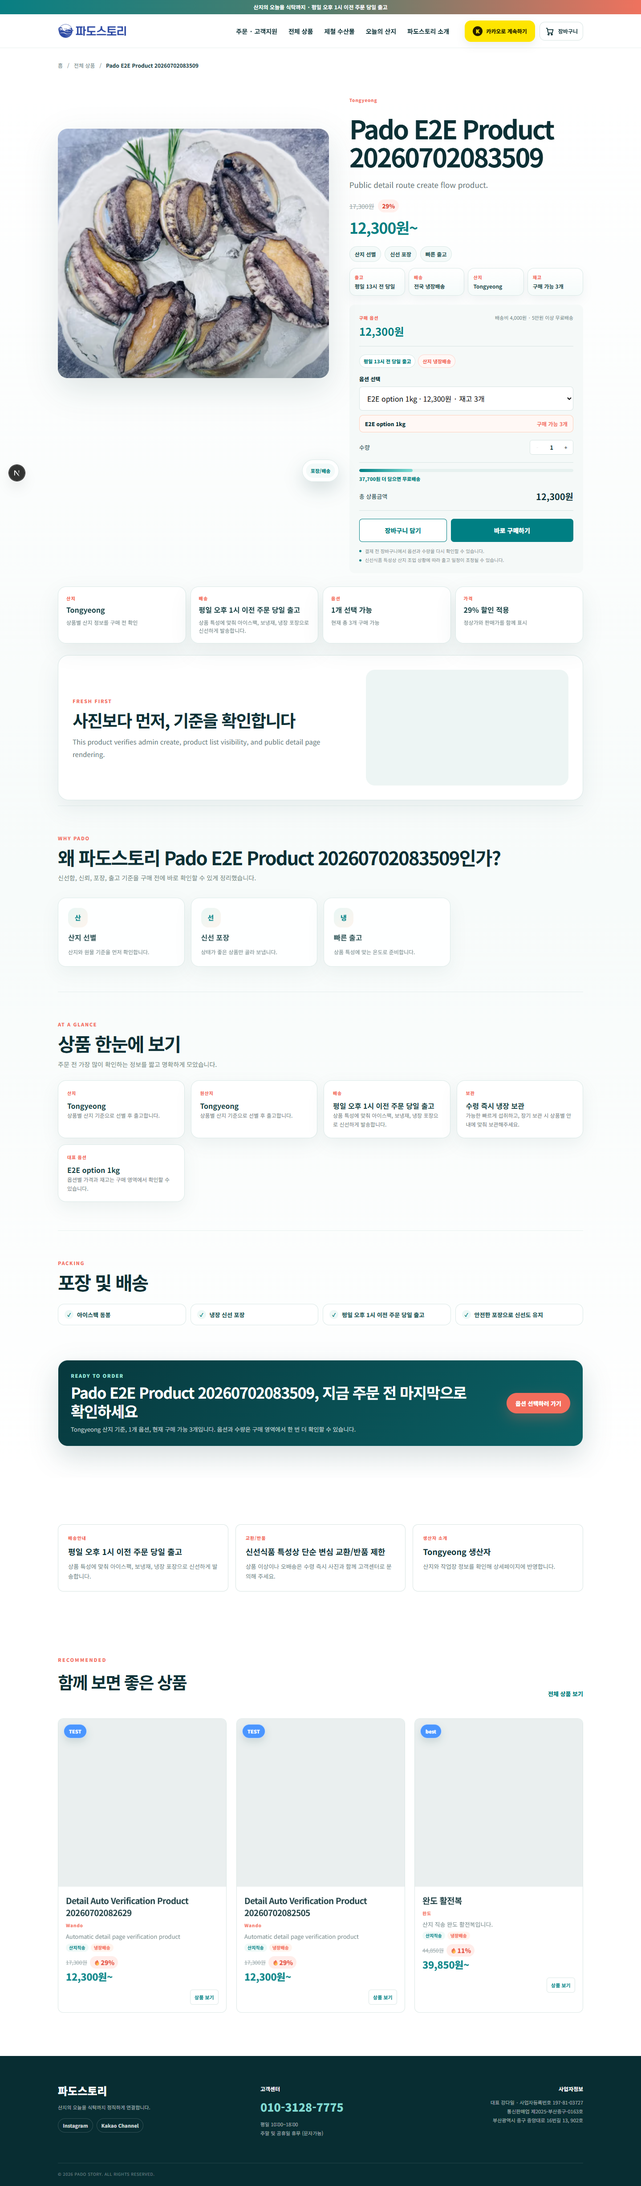
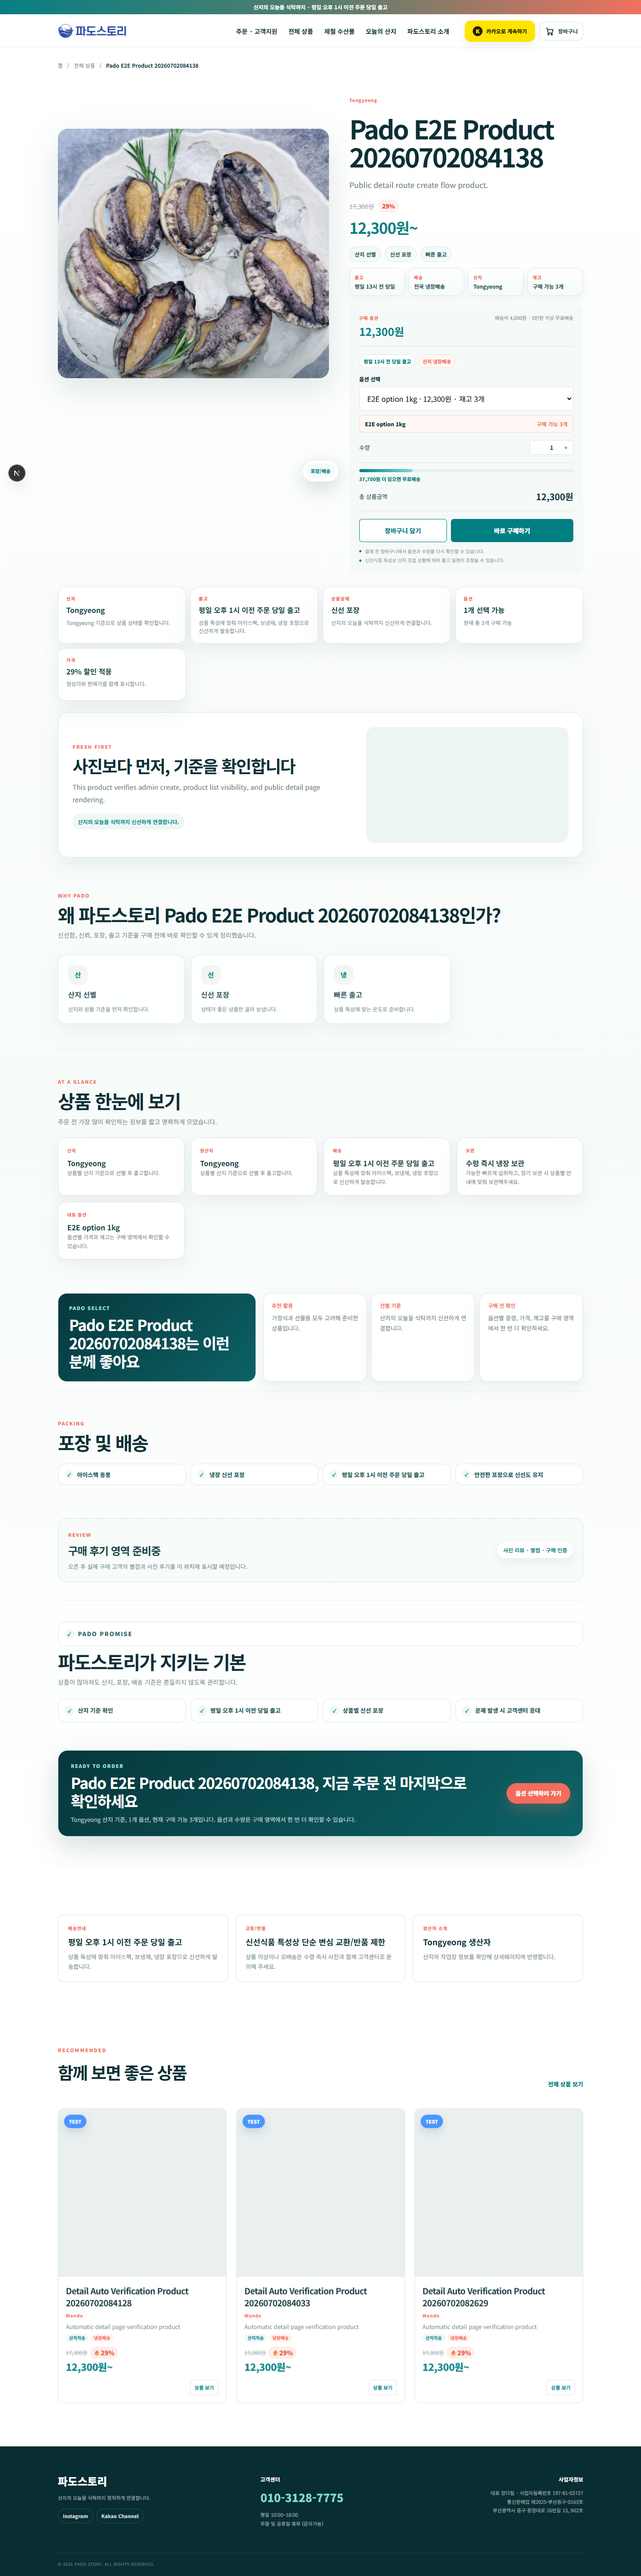
Upgrade master detail template v2

diff --git a/lib/products/detail-template-engine.ts b/lib/products/detail-template-engine.ts
@@ -1,7 +1,9 @@
 import type { Product } from "@/data/products";
 import { getVisibleProductDetailSections } from "@/lib/products/detail-sections";
 
-export const PRODUCT_DETAIL_TEMPLATE_ID = "pado-master-v1";
+export const PRODUCT_DETAIL_TEMPLATE_ID = "pado-master-v2";
+
+export type DetailTemplateKind = "abalone" | "eel" | "fish" | "shellfish" | "meal-kit" | "gift" | "default";
 
 export type DetailTemplateInfoCard = {
   label: string;
@@ -15,20 +17,31 @@ export type DetailTemplateTrustSignal = {
   body: string;
 };
 
+export type DetailTemplateCopy = {
+  eyebrow: string;
+  promise: string;
+  originProof: string;
+  usage: string;
+};
+
 export function buildProductDetailTemplateModel(product: Product) {
   const sections = getVisibleProductDetailSections(product.detail);
+  const kind = inferTemplateKind(product);
+  const copy = buildTemplateCopy(kind, product);
   const heroImages = sections.heroImages.length
     ? sections.heroImages
     : [{ label: "대표사진", url: product.image, description: product.subtitle }];
   const featureItems = sections.benefits.length ? sections.benefits.slice(0, 5) : product.highlights.slice(0, 5);
   const overviewItems = buildOverviewItems(product, sections.components);
-  const trustSignals = buildTrustSignals(product);
+  const trustSignals = buildTrustSignals(product, kind, copy);
   const packagingImage = heroImages.find((image) => /포장|박스|package/i.test(image.label))?.url;
 
   return {
     template: {
       id: PRODUCT_DETAIL_TEMPLATE_ID,
-      schemaVersion: product.detail?.schemaVersion ?? 1
+      schemaVersion: product.detail?.schemaVersion ?? 1,
+      kind,
+      copy
     },
     sections,
     heroImages,
@@ -55,21 +68,35 @@ function buildOverviewItems(product: Product, components: string[]): DetailTempl
   ].filter(Boolean) as DetailTemplateInfoCard[];
 }
 
-function buildTrustSignals(product: Product): DetailTemplateTrustSignal[] {
+function buildTrustSignals(product: Product, kind: DetailTemplateKind, copy: DetailTemplateCopy): DetailTemplateTrustSignal[] {
   const totalStock = product.options.reduce((sum, option) => sum + Number(option.stock ?? 0), 0);
   const optionCount = product.options.length;
   const discountCopy = product.discountRate > 0 ? `${product.discountRate}% 할인 적용` : "정직한 판매가";
+  const handlingByKind: Record<DetailTemplateKind, string> = {
+    abalone: "산소포장",
+    eel: "손질 후 포장",
+    fish: "선도 확인",
+    shellfish: "크기/상태 선별",
+    "meal-kit": "간편 조리 구성",
+    gift: "선물 포장",
+    default: "신선 포장"
+  };
 
   return [
     {
       label: "산지",
       title: product.origin,
-      body: "상품별 산지 정보를 구매 전 확인"
+      body: copy.originProof
     },
     {
-      label: "배송",
+      label: "출고",
       title: product.shippingInfo.title,
       body: product.shippingInfo.body
+    },
+    {
+      label: "상품상태",
+      title: handlingByKind[kind],
+      body: copy.promise
     },
     {
       label: "옵션",
@@ -79,7 +106,67 @@ function buildTrustSignals(product: Product): DetailTemplateTrustSignal[] {
     {
       label: "가격",
       title: discountCopy,
-      body: "정상가와 판매가를 함께 표시"
+      body: "정상가와 판매가를 함께 표시합니다."
     }
   ];
+}
+
+function inferTemplateKind(product: Product): DetailTemplateKind {
+  const text = `${product.slug} ${product.name} ${product.category}`.toLowerCase();
+  if (/gift|선물|세트/.test(text)) return "gift";
+  if (/porridge|meal|kit|죽|미역국|밀키트/.test(text)) return "meal-kit";
+  if (/abalone|전복/.test(text)) return "abalone";
+  if (/eel|장어|아나고/.test(text)) return "eel";
+  if (/conch|oyster|shell|소라|굴|조개/.test(text)) return "shellfish";
+  if (/fish|galchi|godeungeo|갈치|고등어|홍어|새우/.test(text)) return "fish";
+  return "default";
+}
+
+function buildTemplateCopy(kind: DetailTemplateKind, product: Product): DetailTemplateCopy {
+  const byKind: Record<DetailTemplateKind, DetailTemplateCopy> = {
+    abalone: {
+      eyebrow: "LIVE ABALONE",
+      promise: "살아있는 신선함을 산소포장으로 최대한 그대로 전합니다.",
+      originProof: "산지와 선별 기준을 확인하고 활전복 상태에 맞춰 포장합니다.",
+      usage: "버터구이, 전복죽, 찜 요리에 어울리는 상품입니다."
+    },
+    eel: {
+      eyebrow: "READY TO COOK",
+      promise: "손질 부담을 줄이고 집에서는 굽기만 쉽게 준비합니다.",
+      originProof: "손질과 포장 상태를 확인해 바로 조리하기 좋은 상태로 보냅니다.",
+      usage: "구이, 덮밥, 보양식으로 활용하기 좋습니다."
+    },
+    fish: {
+      eyebrow: "SEAFOOD CUT",
+      promise: "식탁에 올리기 좋은 선도와 손질 상태를 기준으로 선별합니다.",
+      originProof: "어종별 산지와 선도 기준을 확인해 출고합니다.",
+      usage: "구이, 조림, 찜 등 가정식 메인 요리에 적합합니다."
+    },
+    shellfish: {
+      eyebrow: "SEASONAL SHELLFISH",
+      promise: "쫄깃한 식감과 제철 풍미가 살아있는 상품을 고릅니다.",
+      originProof: "산지별 입고 상태와 크기, 신선도를 확인합니다.",
+      usage: "숙회, 찜, 탕 요리에 잘 어울립니다."
+    },
+    "meal-kit": {
+      eyebrow: "EASY MEAL",
+      promise: "바쁜 날에도 간편하게 해산물 한 끼를 완성할 수 있습니다.",
+      originProof: "원재료와 구성품을 확인해 조리 편의성을 높입니다.",
+      usage: "간편식, 아침식사, 선물용 식사 구성으로 좋습니다."
+    },
+    gift: {
+      eyebrow: "PREMIUM GIFT",
+      promise: "받는 분의 식탁까지 신선하고 단정하게 도착하도록 구성합니다.",
+      originProof: "선물 구성과 포장 상태를 함께 확인해 출고합니다.",
+      usage: "명절, 감사 인사, 가족 선물로 적합합니다."
+    },
+    default: {
+      eyebrow: "PADO SELECT",
+      promise: "산지의 오늘을 식탁까지 신선하게 연결합니다.",
+      originProof: `${product.origin} 기준으로 상품 상태를 확인합니다.`,
+      usage: "가정식과 선물용 모두 고려해 준비한 상품입니다."
+    }
+  };
+
+  return byKind[kind];
 }

diff --git a/components/products/ProductDetailTemplate.tsx b/components/products/ProductDetailTemplate.tsx
@@ -30,13 +30,14 @@ export function ProductDetailTemplate({ product, purchaseSlot }: Props) {
       aria-label={`${product.name} 상품 상세`}
       data-template-id={template.id}
       data-template-schema={template.schemaVersion}
+      data-template-kind={template.kind}
     >
       <HeroSection product={product} heroImage={heroImages[0]?.url || product.image} purchaseSlot={purchaseSlot} />
 
       <TrustSignalSection signals={trustSignals} />
 
       {product.description && (
-        <StoryIntroSection product={product} image={heroImages[1]?.url || heroImages[0]?.url || product.image} />
+        <StoryIntroSection product={product} image={heroImages[1]?.url || heroImages[0]?.url || product.image} promise={template.copy.promise} />
       )}
 
       {featureItems.length > 0 && (
@@ -44,6 +45,8 @@ export function ProductDetailTemplate({ product, purchaseSlot }: Props) {
       )}
 
       {overviewItems.length > 0 && <OverviewSection items={overviewItems} />}
+
+      <ProductFitSection product={product} eyebrow={template.copy.eyebrow} usage={template.copy.usage} promise={template.copy.promise} />
 
       {sections.journey.length > 0 && <TimelineSection steps={sections.journey} productName={product.name} />}
 
@@ -60,6 +63,10 @@ export function ProductDetailTemplate({ product, purchaseSlot }: Props) {
       )}
 
       {sections.faq.length > 0 && <FAQSection faq={sections.faq} />}
+
+      <ReviewReadySection />
+
+      <BrandPromiseSection />
 
       {(sections.videos.length > 0 || sections.certificates.length > 0 || sections.extraSections.length > 0) && (
         <ExtraSection
@@ -100,16 +107,42 @@ function TrustSignalSection({ signals }: { signals: DetailTemplateTrustSignal[] 
   );
 }
 
-function StoryIntroSection({ product, image }: { product: Product; image: string }) {
+function StoryIntroSection({ product, image, promise }: { product: Product; image: string; promise: string }) {
   return (
     <section className="shell detail-master-story">
       <div>
         <span>FRESH FIRST</span>
         <h2>사진보다 먼저, 기준을 확인합니다</h2>
         <p>{product.description}</p>
+        <strong>{promise}</strong>
       </div>
       <div>
         <Image src={image} alt={`${product.name} 상품 소개`} fill sizes="(max-width: 700px) 100vw, 42vw" />
+      </div>
+    </section>
+  );
+}
+
+function ProductFitSection({ product, eyebrow, usage, promise }: { product: Product; eyebrow: string; usage: string; promise: string }) {
+  const items = [
+    { label: "추천 활용", value: usage },
+    { label: "선별 기준", value: promise },
+    { label: "구매 전 확인", value: "옵션별 중량, 가격, 재고를 구매 영역에서 한 번 더 확인하세요." }
+  ];
+
+  return (
+    <section className="shell detail-master-fit" aria-label={`${product.name} 구매 추천 정보`}>
+      <div>
+        <span>{eyebrow}</span>
+        <h2>{product.name}는 이런 분께 좋아요</h2>
+      </div>
+      <div>
+        {items.map((item) => (
+          <article key={item.label}>
+            <strong>{item.label}</strong>
+            <p>{item.value}</p>
+          </article>
+        ))}
       </div>
     </section>
   );
@@ -310,6 +343,38 @@ function FAQSection({ faq }: { faq: ReturnType<typeof getVisibleProductDetailSec
             <summary>{item.question}</summary>
             <p>{item.answer}</p>
           </details>
+        ))}
+      </div>
+    </section>
+  );
+}
+
+function ReviewReadySection() {
+  return (
+    <section className="shell detail-master-review-ready" aria-label="리뷰 준비중">
+      <div>
+        <span>REVIEW</span>
+        <h2>구매 후기 영역 준비중</h2>
+        <p>오픈 후 실제 구매 고객의 별점과 사진 후기를 이 위치에 표시할 예정입니다.</p>
+      </div>
+      <strong>사진 리뷰 · 별점 · 구매 인증</strong>
+    </section>
+  );
+}
+
+function BrandPromiseSection() {
+  const items = ["산지 기준 확인", "평일 오후 1시 이전 당일 출고", "상품별 신선 포장", "문제 발생 시 고객센터 응대"];
+
+  return (
+    <section className="shell detail-master-brand-promise" aria-label="파도스토리 약속">
+      <SectionTitle
+        eyebrow="PADO PROMISE"
+        title="파도스토리가 지키는 기본"
+        description="상품이 많아져도 산지, 포장, 배송 기준은 흔들리지 않도록 관리합니다."
+      />
+      <div>
+        {items.map((item) => (
+          <span key={item}>{item}</span>
         ))}
       </div>
     </section>

diff --git a/app/globals.css b/app/globals.css
@@ -257,6 +257,9 @@
 /* Product detail v2 commerce signal */
 .detail-master-commerce-bar{display:grid;grid-template-columns:repeat(4,minmax(0,1fr));gap:8px;margin:-4px 0 2px}.detail-master-commerce-bar>div{border:1px solid #dbe9e7;border-radius:14px;background:linear-gradient(180deg,#fff,#f5fbfa);padding:12px 11px;box-shadow:0 10px 22px rgba(7,48,53,.05)}.detail-master-commerce-bar span{display:block;color:var(--coral);font-size:10px;font-weight:950;letter-spacing:.08em;margin-bottom:5px}.detail-master-commerce-bar strong{display:block;color:#173f43;font-size:12px;line-height:1.3;word-break:keep-all}
 @media(max-width:600px){.detail-master-commerce-bar{grid-template-columns:repeat(2,minmax(0,1fr));gap:7px}.detail-master-commerce-bar>div{border-radius:12px;padding:10px}.detail-master-commerce-bar strong{font-size:11.5px}}
+.detail-master-story strong{display:inline-flex;margin-top:18px;border-radius:999px;background:#edf8f6;color:var(--teal);padding:9px 12px;font-size:12px;line-height:1.45}.detail-master-fit{display:grid;grid-template-columns:minmax(230px,.62fr) minmax(0,1fr);gap:16px;align-items:stretch;margin-top:12px;margin-bottom:20px}.detail-master-fit>div:first-child{display:grid;align-content:center;border:1px solid #dbe9e7;border-radius:20px;background:linear-gradient(135deg,#07383d,#0b6266);color:#fff;padding:24px}.detail-master-fit>div:first-child span{color:#9ee5dd;font-size:11px;font-weight:950;letter-spacing:.14em}.detail-master-fit h2{margin:10px 0 0;color:#fff;font-size:clamp(22px,3vw,34px);line-height:1.2;letter-spacing:-.04em}.detail-master-fit>div:last-child{display:grid;grid-template-columns:repeat(3,minmax(0,1fr));gap:10px}.detail-master-fit article{border:1px solid #dbe9e7;border-radius:18px;background:#fff;padding:18px;box-shadow:0 14px 34px rgba(7,48,53,.06)}.detail-master-fit article strong{display:block;color:var(--coral);font-size:12px;margin-bottom:9px}.detail-master-fit article p{margin:0;color:#627678;font-size:13px;line-height:1.7}.detail-master-review-ready{display:flex;align-items:center;justify-content:space-between;gap:18px;margin:10px auto 40px;border:1px dashed #bdd6d3;border-radius:20px;background:#f7fbfa;padding:22px}.detail-master-review-ready span{color:var(--coral);font-size:11px;font-weight:950;letter-spacing:.14em}.detail-master-review-ready h2{margin:8px 0;color:#173f43;font-size:24px;letter-spacing:-.04em}.detail-master-review-ready p{margin:0;color:#6a7d7f;font-size:13px;line-height:1.7}.detail-master-review-ready strong{flex:none;border-radius:999px;background:#fff;color:var(--teal);padding:10px 13px;font-size:12px;box-shadow:0 10px 22px rgba(7,48,53,.06)}.detail-master-brand-promise{padding:48px 0;border-top:1px solid rgba(12,85,93,.08)}.detail-master-brand-promise>div:last-child{display:grid;grid-template-columns:repeat(4,minmax(0,1fr));gap:10px}.detail-master-brand-promise span{display:flex;align-items:center;min-height:54px;border:1px solid #dbe9e7;border-radius:16px;background:#fff;color:#285d61;padding:13px 14px;font-size:13px;font-weight:900}.detail-master-brand-promise span:before{content:"✓";display:grid;place-items:center;flex:none;width:22px;height:22px;margin-right:8px;border-radius:50%;background:#edf8f6;color:var(--teal);font-size:11px}
+@media(max-width:800px){.detail-master-fit{grid-template-columns:1fr}.detail-master-fit>div:last-child{grid-template-columns:1fr}.detail-master-review-ready{align-items:flex-start;flex-direction:column}.detail-master-review-ready strong{width:100%;text-align:center}.detail-master-brand-promise>div:last-child{grid-template-columns:1fr 1fr}}
+@media(max-width:520px){.detail-master-fit,.detail-master-review-ready,.detail-master-brand-promise{width:calc(100% - 28px)}.detail-master-fit>div:first-child{padding:20px;border-radius:18px}.detail-master-fit article{padding:16px}.detail-master-brand-promise>div:last-child{grid-template-columns:1fr}.detail-master-brand-promise span{min-height:48px}}
 
 /* Admin list empty state */
 .admin-empty-filter{display:grid;justify-items:center;gap:8px;padding:34px 16px;border:1px dashed #dbe9e7;border-radius:12px;background:#f7fbfa;text-align:center}.admin-empty-filter strong{color:var(--teal);font-size:14px}.admin-empty-filter span{color:var(--muted);font-size:12px}.admin-empty-filter button{border:1px solid var(--teal);border-radius:999px;background:#fff;color:var(--teal);padding:8px 12px;font-size:11px;font-weight:900}

diff --git a/WORKLOG.md b/WORKLOG.md
@@ -799,3 +799,18 @@
 - `pnpm run verify:admin-new-click` 성공
 - `pnpm run verify:admin` 성공
 - 관리자 등록 Preview 렌더링 및 실제 등록 플로우 콘솔 오류 없음 확인
+## 2026-07-02 MASTER 상세페이지 템플릿 v2 1차 고도화
+### 완료 작업
+
+- `detail-template-engine`을 `pado-master-v2` 기준으로 정리했습니다.
+- 상품명/slug/category를 기준으로 전복, 장어, 생선, 조개류, 밀키트, 선물세트, 기본형 템플릿 타입을 자동 판정하도록 구현했습니다.
+- 상품군별 promise, 활용 추천, 산지 검증 문구를 자동 생성해 상세페이지 신뢰 요소에 반영했습니다.
+- 상세페이지에 `이런 분께 좋아요`, `리뷰 준비중`, `파도스토리 약속` 섹션을 추가했습니다.
+- 신규 섹션을 모바일 우선으로 볼 수 있도록 CSS를 보강했습니다.
+- `verify-detail-json-flow`의 MASTER template ID 검증을 v2 기준으로 갱신했습니다.
+
+### 검증
+- `pnpm run build` 성공
+- `pnpm run verify:detail-template` 성공
+- `pnpm run verify:detail-json` 성공
+- `pnpm run verify:admin` 성공

diff --git a/TEST_REPORT.md b/TEST_REPORT.md
@@ -873,3 +873,20 @@
 - `pnpm run build`: 성공
 - `pnpm run verify:admin-new-click`: 성공
 - `pnpm run verify:admin`: 성공
+## 2026-07-02 MASTER 상세페이지 템플릿 v2 검증
+
+### 검증 범위
+
+- MASTER template ID `pado-master-v2` 렌더링
+- 상품군 자동 판정 모델 빌드
+- 상품군별 신뢰 문구/추천 활용 문구 렌더링
+- 신규 섹션: 이런 분께 좋아요, 리뷰 준비중, 파도스토리 약속
+- detail_json 기반 상품 상세 자동 생성 유지
+- 관리자 Preview 실제 상세 템플릿 렌더링 유지
+
+### 결과
+
+- `pnpm run build`: 성공
+- `pnpm run verify:detail-template`: 성공
+- `pnpm run verify:detail-json`: 성공
+- `pnpm run verify:admin`: 성공
